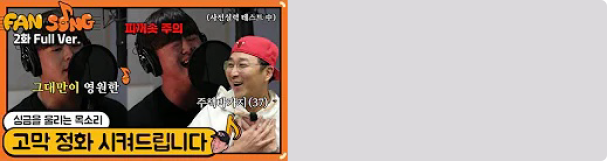
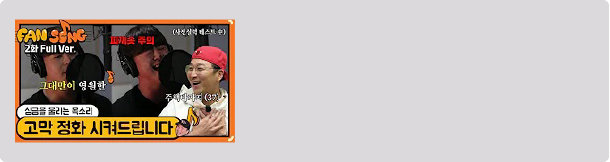
Add files via upload

diff --git a/index.html b/index.html
@@ -207,7 +207,7 @@
 				<p class="content">제작 과정</p>
 				<img src="boom.png" class="absolute boom">
 				<div class="absolute make1">
-					<a href="https://youtu.be/L_ulruc9-iU"><img src="youtube1.png"></a>
+					<a href="https://youtu.be/L_ulruc9-iU"><img src="img10.png"></a>
 					<div>
 						<p><span class="yttt absolute">1화) 사전기획</span></p>
 						<p><span class="yttext absolute" style="top: 60px"><span style="font-weight: bolder;"><팬들을 위해 노래 만들기</span>(팬송)></span></p>
@@ -217,7 +217,7 @@
 					</div>
 				</div>
 				<div class="absolute make2">
-				<a href="https://youtu.be/LliSwR_QGxE"><img src="youtube2.png"></a>
+				<a href="https://youtu.be/LliSwR_QGxE"><img src="img11.png"></a>
 				<div>
 						<p><span class="yttt absolute">2화) 팀명 선정</span></p>
 						<p><span class="yttext absolute" style="top: 60px; font-weight: bolder;"><인스타 라이브 팀 이름 공모전></span></p>
@@ -227,7 +227,7 @@
 					</div>
 				</div>
 				<div class="absolute make3">
-				<a href="https://youtu.be/2W3jxDgNWHs"><img src="youtube3.png"></a>
+				<a href="https://youtu.be/2W3jxDgNWHs"><img src="img12.png"></a>
 				<div>
 						<p><span class="yttt absolute">3화) 작사 프로젝트</span></p>
 						<p><span class="yttext absolute" style="top: 60px; font-weight: bolder;"><작사 전 트레이닝 게임></span></p>
@@ -237,7 +237,7 @@
 					</div>
 				</div>
 				<div class="absolute make4">
-				<a href="https://youtu.be/BmJE2BRrENk"><img src="youtube4.png"></a>
+				<a href="https://youtu.be/BmJE2BRrENk"><img src="img13.png"></a>
 				<div>
 						<p><span class="yttt absolute">4화) 선수 노래 선수 작사</span></p>
 						<p><span class="yttext absolute" style="top: 60px; font-weight: bolder;"><선수들이 쓴 가사로 부른 팬송 완성기></span></p>
@@ -247,7 +247,7 @@
 					</div>
 				</div>
 				<div class="absolute make5">
-				<a href="https://youtu.be/SFuVnQxOC-M"><img src="youtube5.png"></a>
+				<a href="https://youtu.be/SFuVnQxOC-M"><img src="img14.png"></a>
 				
 				<div>
 						<p><span class="yttt absolute">보너스) 앨범 키트 언박싱</span></p>
